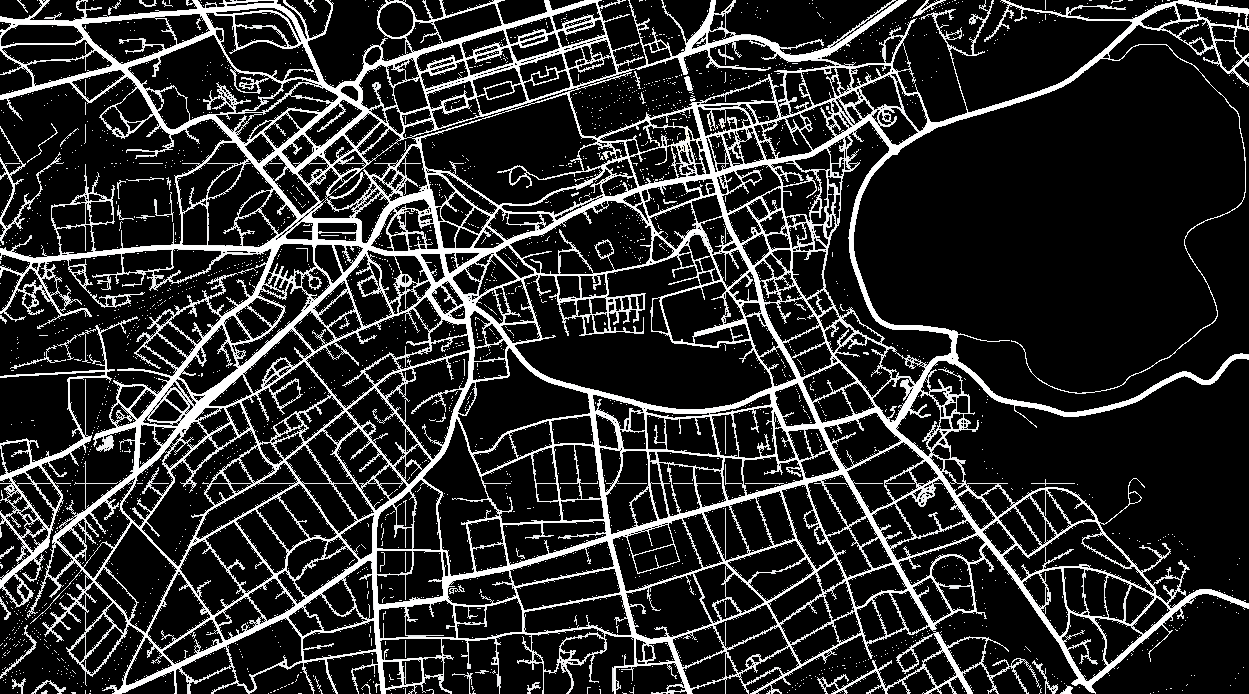
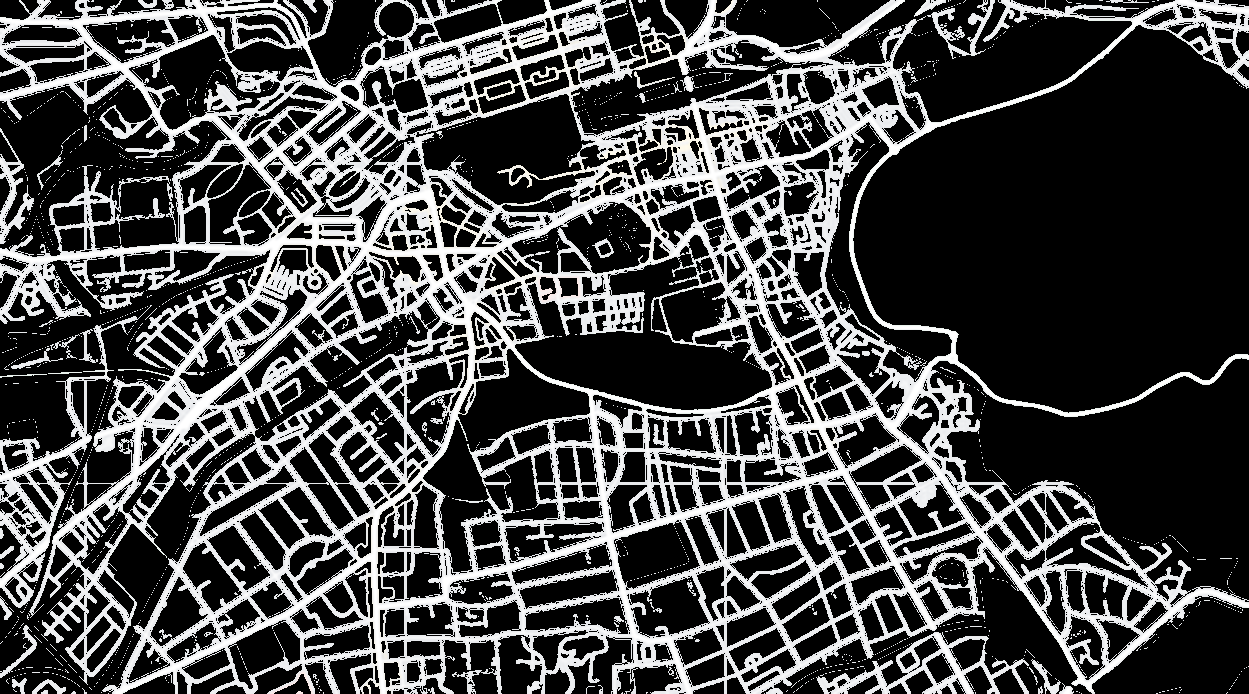
Map_filtering

Changed region(s): [[0.0, 0.0, 1.0, 1.0]]

diff --git a/Task1/Astar.py b/Task1/Astar.py
@@ -15,7 +15,9 @@ def inRange(img,x,y):
     return x>=0 and x<img.shape[0] and y>=0 and y<img.shape[1]
 
 # Takes in the processed image.
-image = cv.imread("processedmaze.png")
+image = cv.imread("image_gray2.png")
+
+image = cv.resize(image, (610, 338), interpolation = cv.INTER_LINEAR)
 
 # We create a copy of the original image to not accidentally change data. This is more of a stretched cautionary step.
 temp = image.copy()
@@ -27,53 +29,71 @@ black = [0, 0, 0]
 found = [0, 255, 255]
 
 # This stores the startXY and endXy co-ordinates
-startXY = (335,139)
-endXY = (226, 720)
+startXY = (274,354)
+endXY = (85, 257)
 
-# We found that (226, 720) being of a different colour caused some bugs. So we changed it to white.
-temp[226, 720] = [255, 255, 255]
-
-
+# open_set = Stores the pixels that have been reached but the neighbors have not been explored yet.
+# closed_set = Stores the pixels that have been reached and the neighbors have been explored. 
 open_set = set([startXY])
 closed_set = set([])
+
+# g is the cost to reach the corresponding vertex from startXY
 g = {}
+
+# parents stores the parent of a particular pixel (Implies that it was reached through the parent pixel)
 parents = {}
 
+# the cost to reach startXY is 0
 g[startXY] = 0 
 
+# declaring the values for the coordinates individually
 startX = startXY[0]
 startY = startXY[1]
 endX = endXY[0]
 endY = endXY[1]
 
+# parent of startXY is itself. We will later use this to reconstruct the path
 parents[startXY] = startXY
 
-
+# setting the flag to zero. If set to zero, that implies the optimum path has been found
 flag = 0
 
+# we mark the explored parts in blue
 temp[(startX, startY)] = blue
 
+# The A* Algorithm's implementation. Starts with a loop that proceeds till the entire image has been explored.
+# If this happens then open_set will have zero elements.
 while len(open_set) != 0:
+    # n is a node that we are about to consider
     n = None
     
+    # The loop checks for the minimum cost + heuristic node in the open_set
     for (i, j) in open_set:
+        # We ran into a problem of overestimating the heuristic function when we declared the heuristic as
+        # |x - x0| + |y - y0|. This was because, the path can be traversed even diagonally. Which might lead to
+        # shorter paths. Thus, we use sqrt((x-x0)^2 + (y-y0)^2) as the heuristic.
         if n == None or g[(i, j)] +  math.sqrt((endX-i)**2+ (endY-j)**2) < g[n] + math.sqrt((n[0]-endX)**2 + (n[1]-endY)**2):
             n = (i, j)
     
+    # Set the coordinates to n[0] and n[1]
     i = n[0]
     j = n[1]
     
+    # These will iterate through the neighbours
     for (r,s) in [(0, 1), (1, 0), (1, 1), (-1, 0), (0, -1), (-1, -1), (1, -1), (-1, 1)]:
         
         if inRange(temp,r+i,s+j):
             
+            # Checks is (r+i, s+j) has already been explored. And also if it is traversable. That is it is not black
             if ((r+i, s+j) not in open_set) and ((r+i, s+j) not in closed_set) and ((temp[i+r, j+s] != black).any()):
                 open_set.add((r+i, s+j))
                 temp[i+r, j+s] = blue
                 parents[(r+i, s+j)] = (i, j)
                 g[(r+i, j+s)] = g[(i, j)] + 1
-                
+            
+            # Runs this condition is the node has already been traversed once before
             elif (temp[i+r, j+s] != black).any():
+                # Checks if the cost is lesser than before
                 if g[(r+i, s+j)]> g[(i, j)] + 1:
                     parents[(r+i, s+j)] = (i, j)
                     g[(r+i, j+s)] = g[(i, j)] + 1

diff --git a/Task1/map_filtering.py b/Task1/map_filtering.py
@@ -11,6 +11,7 @@ import cv2 as cv
 import numpy as np
 
 map_default = cv.imread("image.png")
+map_default = cv.GaussianBlur(map_default, (5, 5), 0)
 
 colors = [[227, 208, 233], [249,192,156], [224,247,254], [192,223,180], [237,234,232], [231,227,225], [181,218,168], [230,232,252]]
 height, width = map_default.shape[:2]
@@ -25,62 +26,10 @@ for i in range(height):
 # map_default = cv.cvtColor(map_default, cv.COLOR_BGR2GRAY)
 
 colors2 = [[233, 233, 233], [208, 208, 208], [227, 227, 227]]
-
-'''
-for i in range(height):
-    for j in range(width):
-        for color in colors2:
-            if (map_default[i][j] == color).all():
-                map_default[i][j] = 0
-'''
-
-'''
-for i in range(height):
-    for j in range(width):
-        if map_default[i][j] not in  range(240, 256):
-            map_default[i][j] = 0
-'''
 cv.imwrite("image_gray.png", map_default)
 
 #Displaying the image
 cv.imshow("Final Map", map_default)
 cv.waitKey(0)
 cv.destroyAllWindows()
-
-'''
-RED = (0,0,255)
-BLUE = (255,0,0)
-
-def inRange(img,point):
-    #checks if point is within the range of the image's dimensions
-    return (point[0]>=0 and point[0]<img.shape[0] and point[1]>=0 and point[1]<img.shape[1])
-
-# Grey on Map, Grass, Lake, Plateau
-colors = [[237, 234, 232], [192, 223, 180], [249,192,156], [224, 247, 254]]
-
-maze = cv.imread("image.png")
-
-n, l = maze.shape[:2]
-tempmaze = maze.copy()
-for i in range(n):
-    for j in range(l):
-        for color in colors:
-            if (maze[i][j] == color).all():
-                tempmaze[i][j] = [255, 255, 255]
-                for (r,s) in [(-1,0), (1,0), (0,-1), (0,1)]:
-                    if inRange(maze, (r+i, s+j)):
-                        tempmaze[r+i][s+j] =  [255, 255, 255]
-                break
-        tempmaze[i][j] = [0,0,0]
-
-
-tempmaze = cv.resize(tempmaze,(int(l*0.5), int(n*0.5)), interpolation=cv.INTER_AREA)
-n, l = tempmaze.shape[:2]
-for i in range(n):
-    for j in range(l):
-        if tempmaze[i][j][0] > 127:
-             tempmaze[i][j] = (255,255,255)
-        else:
-            tempmaze[i][j] = (0,0,0)
-'''
 

diff --git a/Task1/djikstra.py b/Task1/djikstra.py
@@ -13,7 +13,7 @@ import numpy as np
 def inRange(img,x,y):
     return x>=0 and x<img.shape[0] and y>=0 and y<img.shape[1]
 
-image = cv.imread("processedmaze.png")
+image = cv.imread("image_gray2.png")
 
 temp = image.copy()
 

diff --git a/Task1/map_filtering2.py b/Task1/map_filtering2.py
@@ -1,0 +1,7 @@
+# -*- coding: utf-8 -*-
+"""
+Created on Thu May 25 19:32:57 2023
+
+@author: swami
+"""
+
